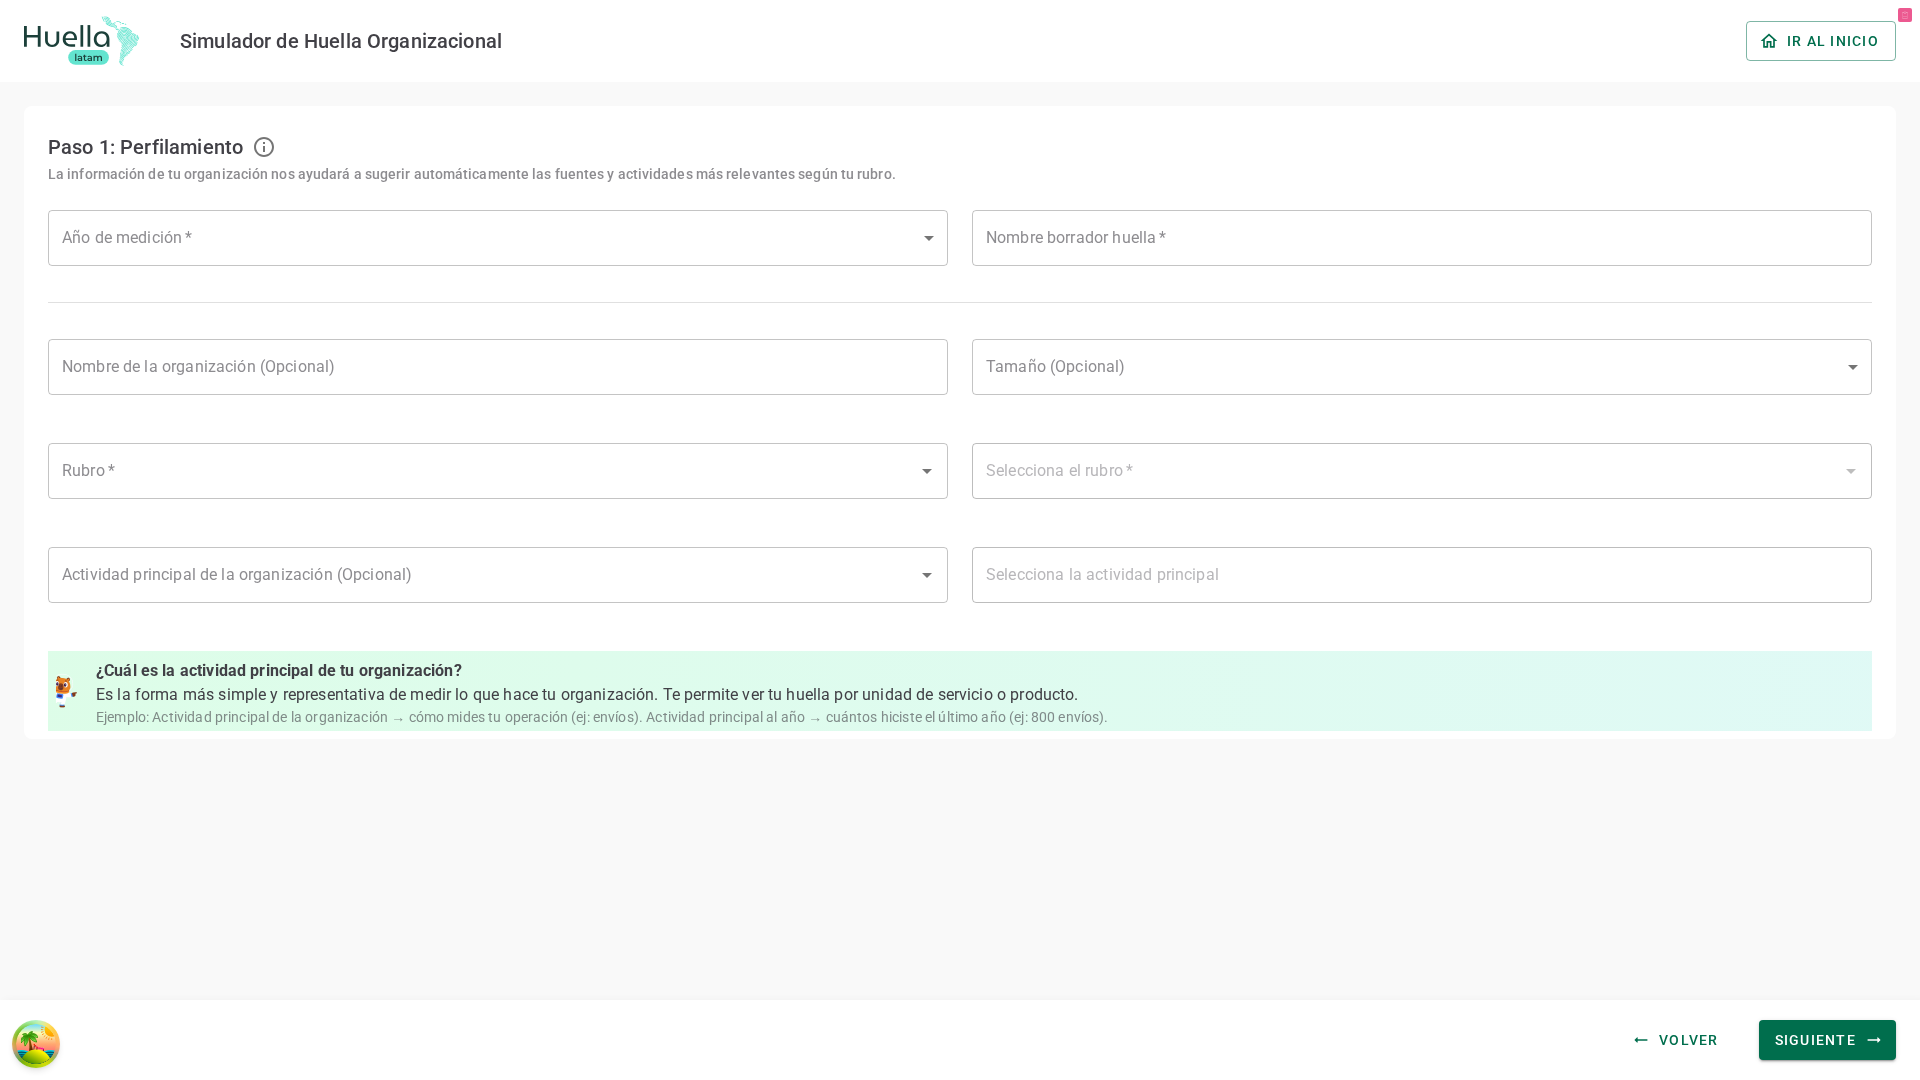
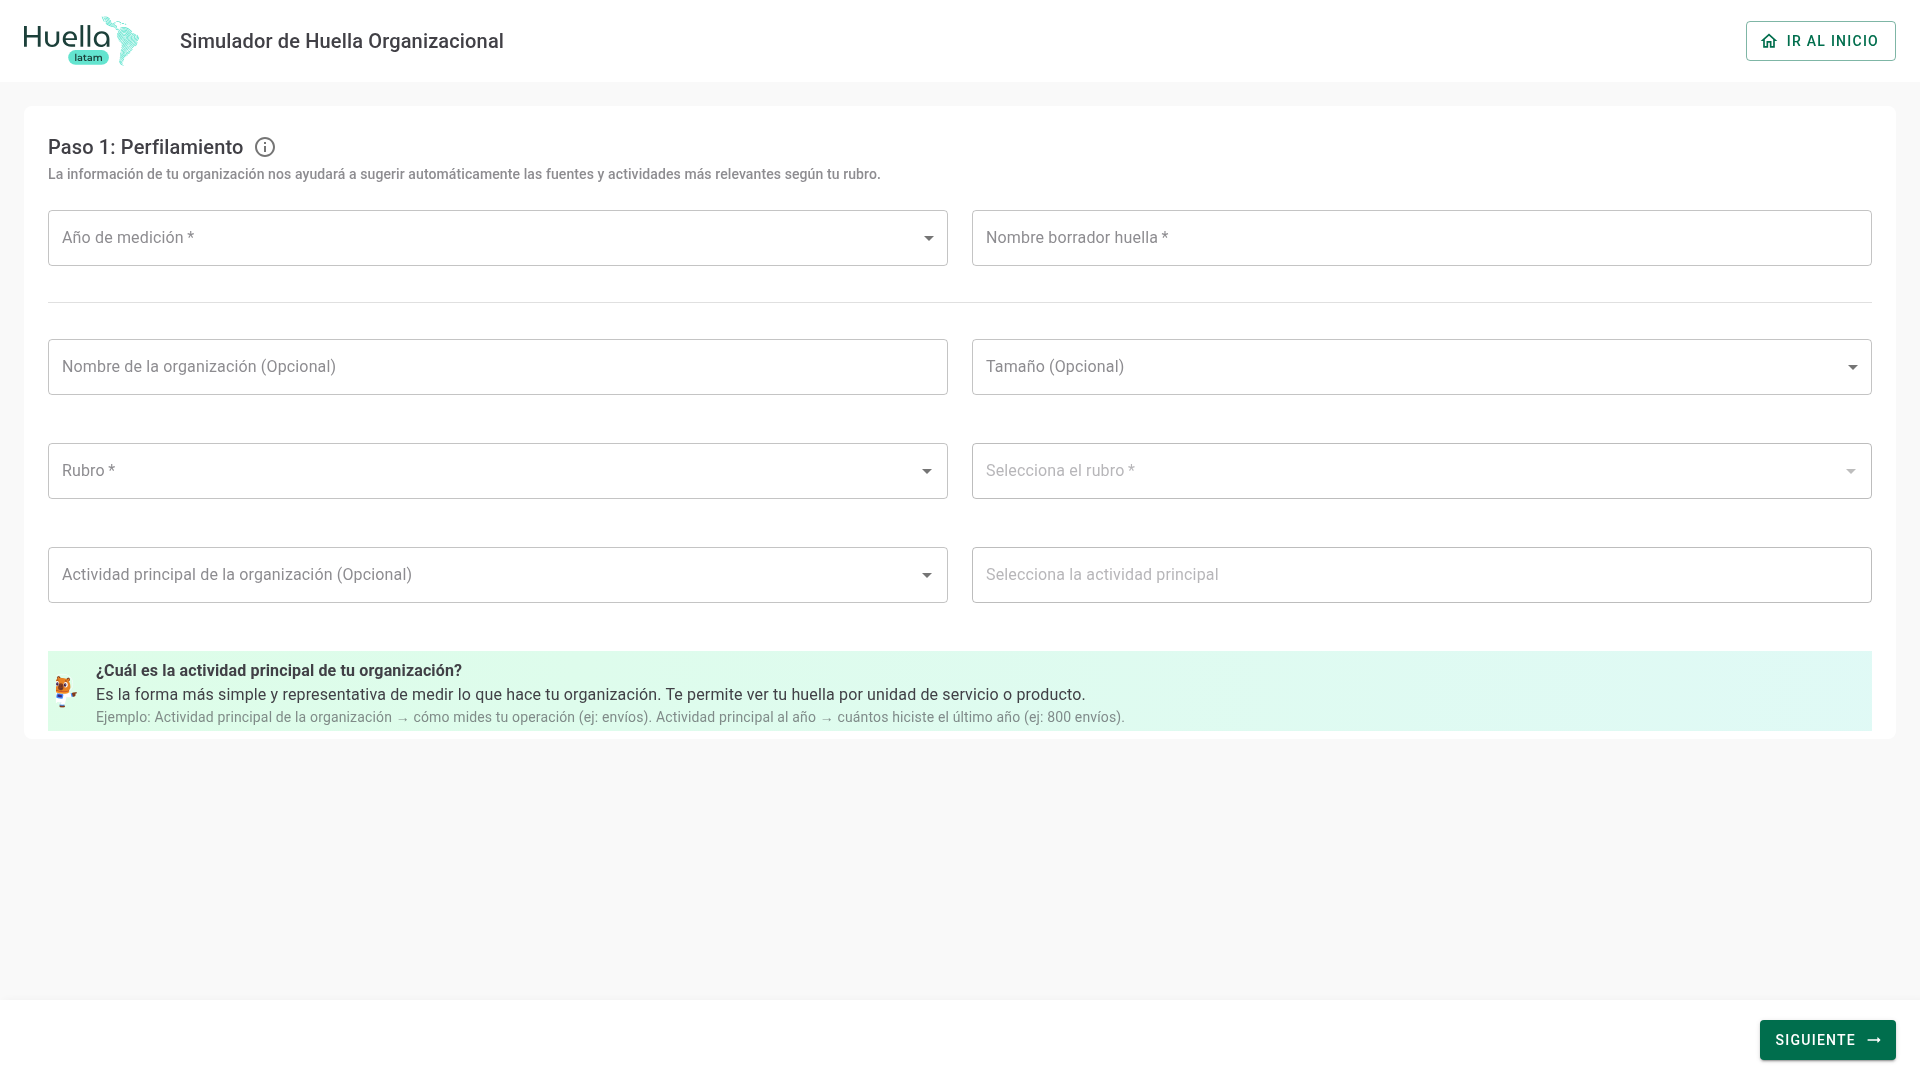
docs(manual): finish the calculator chapter's tCO2e and Volver cleanup
Two leftovers from the fixes the chapter was already updated for.

- The step-5 legend still described the equivalence without naming its
  unit, which was deliberate while the app labelled a tonne-based value
  as kilograms. That label now reads tCO2e, so the legend names it:
  https://github.com/undp/carbon-footprint-program/pull/550
- paso1.png and paso1-vacio.png still showed the footer "Volver" that
  step 1 no longer has, so both were recaptured. Their crop stops above
  the footer, so paso1-c.png stays as it is:
  https://github.com/undp/carbon-footprint-program/pull/548

PDF regenerated. All 22 slides measure 810 px at 1440x810.

diff --git a/user_manual/calculadora_huella/calculadora_huella.html b/user_manual/calculadora_huella/calculadora_huella.html
@@ -927,8 +927,9 @@
           alcance, en toneladas y en porcentaje.
         </li>
         <li>
-          <span class="legend-num">4</span><strong>Tu huella equivalente:</strong> las emisiones por
-          unidad de tu actividad principal; aparece si la declaraste con una cantidad mayor que cero.
+          <span class="legend-num">4</span><strong>Tu huella equivalente:</strong> las emisiones en
+          tCO₂e por unidad de tu actividad principal; aparece si la declaraste con una cantidad mayor
+          que cero.
         </li>
         <li>
           <span class="legend-num">5</span><strong>Ranking de emisiones:</strong> las fuentes que más
